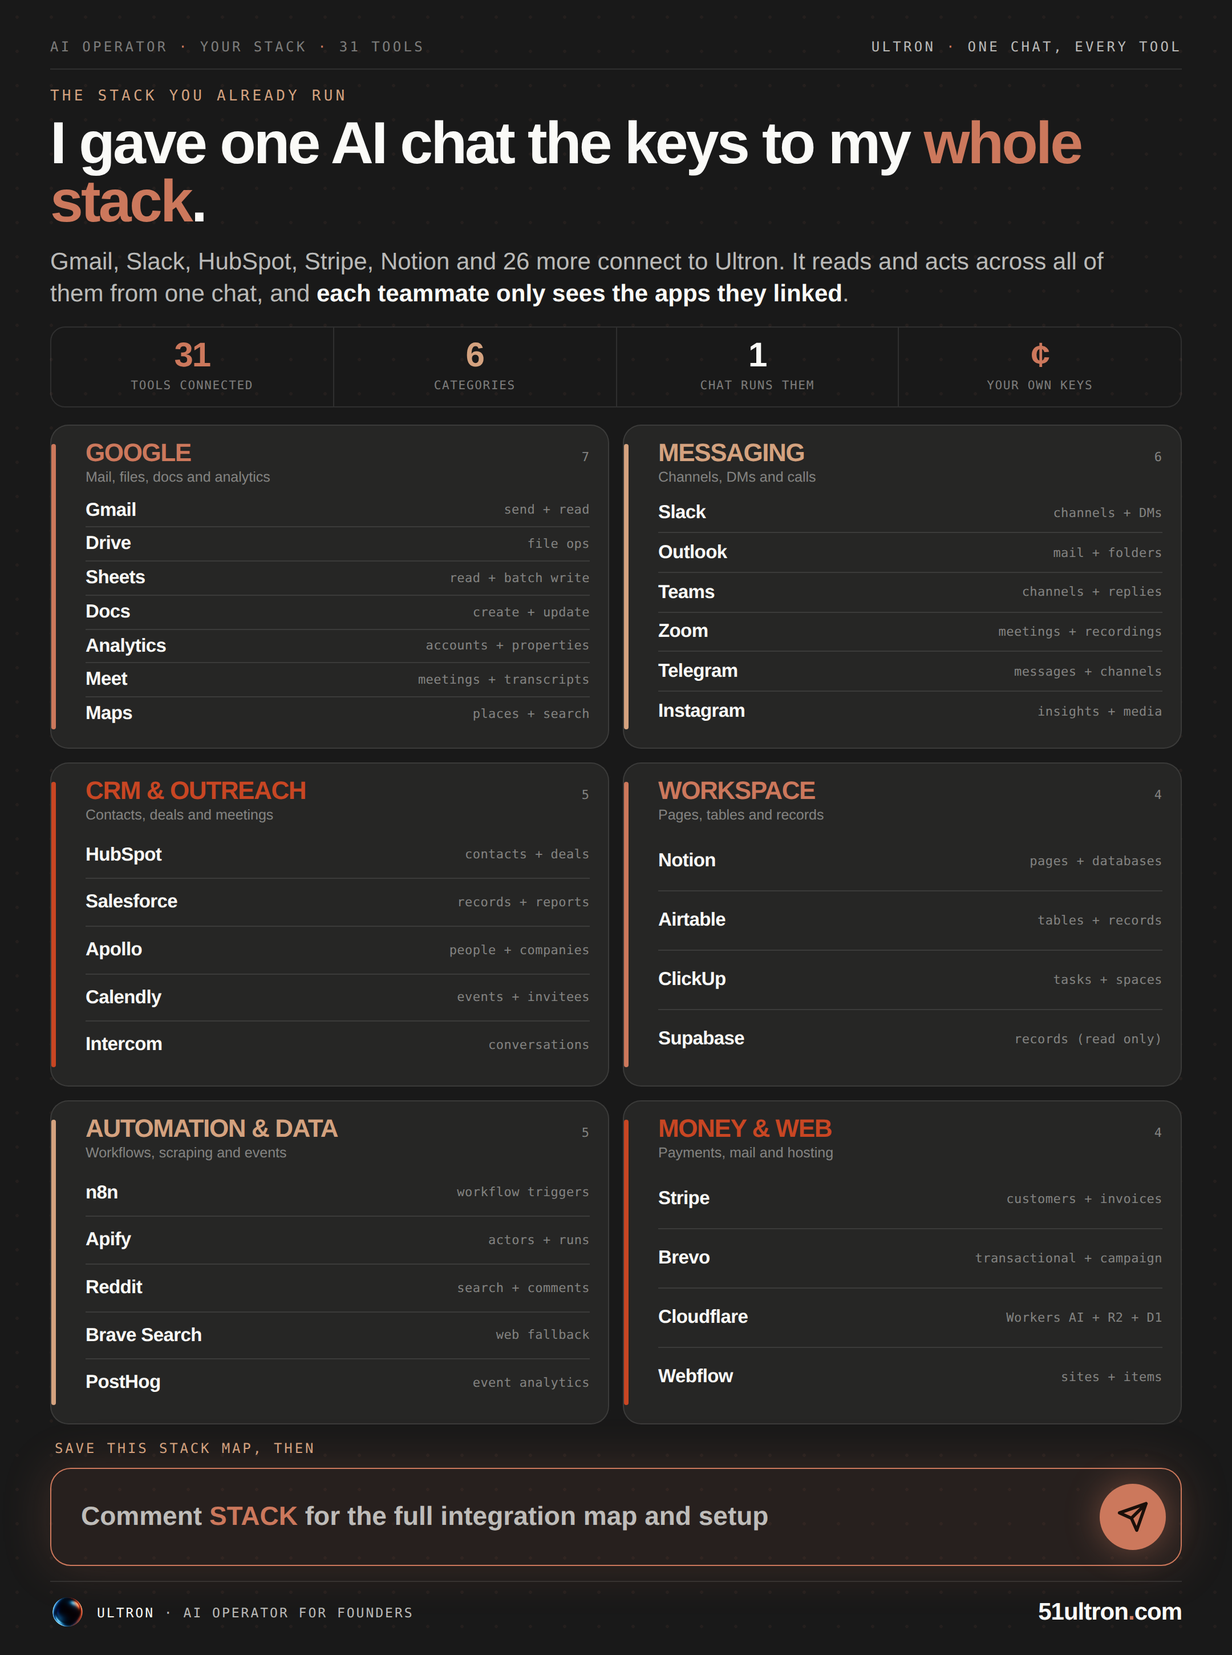
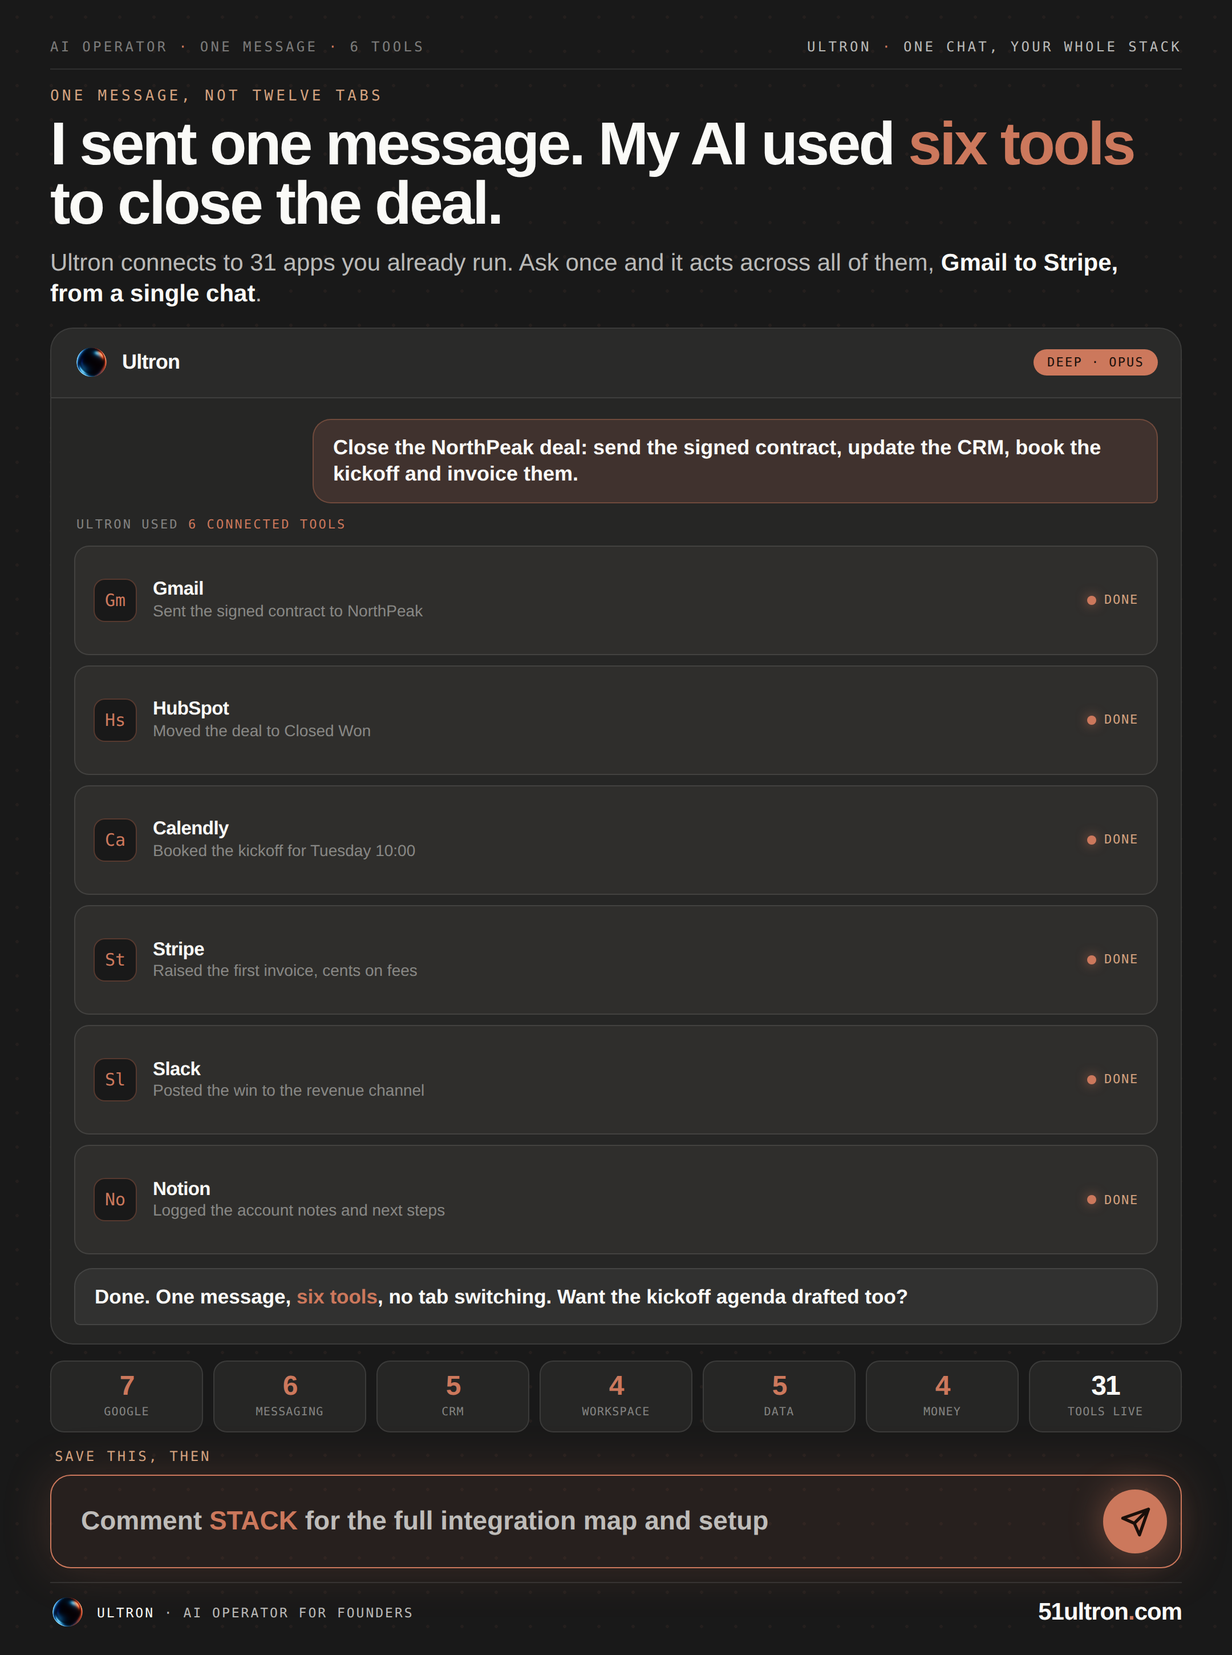
LinkedIn external-tools: new 2D chat-mockup approach (flat)
Replace the weak category grid with a realistic flat 2D Ultron chat mockup: one
message fires six real tools (Gmail -> Stripe), model chip, done markers, plus a
breadth strip (31 tools across 6 categories). Flat coded design, no faux-3D
shadow (operator: LinkedIn stays 2D). ALT text updated to match.

Claude-Session: https://claude.ai/code/session_014kd6D8JB5VW3pfqpgRb2H7

diff --git a/content/tools-external-linkedin.html b/content/tools-external-linkedin.html
@@ -5,11 +5,10 @@
 <title>tools-external - LinkedIn 1080x1450</title>
 <style>
 @import 'https://fonts.googleapis.com/css2?family=DM+Sans:opsz,wght@9..40,400;9..40,500;9..40,600;9..40,700;9..40,800;9..40,900&family=DM+Mono:wght@400;500&display=swap';
-/* tools-external - One chat wired into your whole stack. Dominant = 6 category CARDS of real
-   integrations (chips), distinct from router's 3 lanes and any catalog table. Dark Ultron. Save+comment. */
-:root{--slate:#191919;--slate2:#262625;--ivory:#FAFAF7;--ink70:rgba(250,250,247,.72);--ink46:rgba(250,250,247,.46);
---ink30:rgba(250,250,247,.30);--rule:rgba(250,250,247,.10);
---book:#CC785C;--book-d:#C84623;--kraft:#D4A27F;--cloud:#919180;}
+/* tools-external v2 - NEW approach: a realistic Ultron CHAT mockup where one message fires six real
+   tools (product UI, coded-depth like app.51ultron.com/docs). Distinct from any grid/table. Dark Ultron. */
+:root{--slate:#191919;--slate2:#262625;--slate3:#2f2e2c;--ivory:#FAFAF7;--ink70:rgba(250,250,247,.72);--ink46:rgba(250,250,247,.46);
+--ink30:rgba(250,250,247,.30);--rule:rgba(250,250,247,.10);--book:#CC785C;--book-d:#C84623;--kraft:#D4A27F;--cloud:#919180;}
 *{box-sizing:border-box;margin:0;padding:0;}
 body{background:#0d0d0d;display:flex;justify-content:center;padding:24px 0;font-family:'DM Sans',sans-serif;-webkit-font-smoothing:antialiased;}
 .frame{width:1080px;height:1450px;background:var(--slate);padding:34px 44px 22px;position:relative;overflow:hidden;color:var(--ivory);display:flex;flex-direction:column;}
@@ -21,38 +20,41 @@ body{background:#0d0d0d;display:flex;justify-content:center;padding:24px 0;font-
 .mast .mr{color:var(--ink70);}.mast .mr em{color:var(--book);font-style:normal;}
 .hero{flex-shrink:0;margin-top:16px;}
 .eye{font-family:'DM Mono',monospace;font-size:13px;font-weight:500;letter-spacing:.2em;text-transform:uppercase;color:var(--kraft);}
-.hook{margin-top:9px;font-weight:900;font-size:52px;line-height:.99;letter-spacing:-1.9px;color:var(--ivory);}.hook em{color:var(--book);font-style:normal;}
-.sub{margin-top:12px;font-size:21px;font-weight:500;line-height:1.32;color:var(--ink70);max-width:970px;}.sub b{color:var(--ivory);font-weight:700;}
-.stats{flex-shrink:0;margin-top:15px;display:flex;border:1px solid var(--rule);border-radius:13px;overflow:hidden;}
-.stat{flex:1;padding:12px 14px;text-align:center;}.stat+.stat{border-left:1px solid var(--rule);}
-.stat b{display:block;font-weight:900;font-size:30px;line-height:.85;letter-spacing:-1px;}
-.stat.a b{color:var(--book);}.stat.b b{color:var(--kraft);}.stat.c b{color:var(--ivory);}.stat.d b{color:var(--book);}
-.stat span{font-family:'DM Mono',monospace;font-size:10.5px;font-weight:500;letter-spacing:.08em;text-transform:uppercase;color:var(--ink46);margin-top:7px;display:block;}
-/* category grid (dominant) */
-.grid{flex:1;min-height:0;margin-top:15px;display:grid;grid-template-columns:1fr 1fr;grid-auto-rows:1fr;gap:12px;}
-.cat{display:flex;flex-direction:column;border:1px solid var(--rule);border-radius:16px;background:var(--slate2);overflow:hidden;min-height:0;padding:14px 16px 15px;position:relative;}
-.cat::before{content:'';position:absolute;left:0;top:16px;bottom:16px;width:4px;border-radius:3px;}
-.cat.a::before{background:var(--book);}.cat.b::before{background:var(--kraft);}.cat.c::before{background:var(--book-d);}
-.cat.d::before{background:var(--book);}.cat.e::before{background:var(--kraft);}.cat.f::before{background:var(--book-d);}
-.chead{display:flex;align-items:baseline;justify-content:space-between;padding-left:14px;}
-.cname{font-weight:900;font-size:22px;letter-spacing:-.7px;line-height:.95;}
-.cat.a .cname{color:var(--book);}.cat.b .cname{color:var(--kraft);}.cat.c .cname{color:var(--book-d);}
-.cat.d .cname{color:var(--book);}.cat.e .cname{color:var(--kraft);}.cat.f .cname{color:var(--book-d);}
-.cn{font-family:'DM Mono',monospace;font-size:11px;font-weight:500;color:var(--ink46);letter-spacing:.04em;}
-.cwork{padding-left:14px;margin-top:4px;font-size:12.5px;font-weight:500;color:var(--ink46);line-height:1.1;}
-.tools{flex:1;min-height:0;display:flex;flex-direction:column;padding-left:14px;margin-top:7px;}
-.trow{flex:1;min-height:0;display:flex;align-items:center;justify-content:space-between;gap:10px;border-bottom:1px solid var(--rule);}
-.trow:last-child{border-bottom:none;}
-.tn{font-size:16.5px;font-weight:700;color:var(--ivory);letter-spacing:-.3px;line-height:1;}
-.ta{font-family:'DM Mono',monospace;font-size:11px;font-weight:500;color:var(--ink46);letter-spacing:.02em;text-align:right;line-height:1;}
+.hook{margin-top:9px;font-weight:900;font-size:53px;line-height:.99;letter-spacing:-1.9px;color:var(--ivory);}.hook em{color:var(--book);font-style:normal;}
+.sub{margin-top:11px;font-size:21px;font-weight:500;line-height:1.3;color:var(--ink70);max-width:966px;}.sub b{color:var(--ivory);font-weight:700;}
+/* chat mockup (dominant) */
+.chat{flex:1;min-height:0;margin-top:15px;display:flex;flex-direction:column;border:1px solid var(--rule);border-radius:20px;background:var(--slate2);overflow:hidden;}
+.cbar{flex-shrink:0;display:flex;align-items:center;gap:12px;padding:15px 20px;border-bottom:1px solid var(--rule);background:rgba(250,250,247,.02);}
+.cbar .orb{width:30px;height:30px;border-radius:50%;object-fit:cover;}
+.cbar .cn{font-weight:800;font-size:18px;letter-spacing:-.4px;}
+.cbar .cmodel{margin-left:auto;font-family:'DM Mono',monospace;font-size:11px;font-weight:500;letter-spacing:.1em;text-transform:uppercase;color:#1a0f0a;background:var(--book);padding:5px 12px;border-radius:20px;}
+.cbody{flex:1;min-height:0;display:flex;flex-direction:column;padding:18px 20px 16px;gap:12px;}
+.ume{align-self:flex-end;max-width:78%;background:rgba(204,120,92,.16);border:1px solid var(--book-bd,rgba(204,120,92,.34));border-radius:16px 16px 5px 16px;padding:13px 17px;font-size:18px;font-weight:600;line-height:1.28;color:var(--ivory);}
+.act{font-family:'DM Mono',monospace;font-size:11px;font-weight:500;letter-spacing:.14em;text-transform:uppercase;color:var(--ink46);padding-left:2px;}
+.act em{color:var(--book);font-style:normal;}
+.calls{flex:1;min-height:0;display:flex;flex-direction:column;gap:9px;}
+.tc{flex:1;min-height:0;display:flex;align-items:center;gap:14px;background:var(--slate3);border:1px solid var(--rule);border-radius:13px;padding:0 16px;}
+.tc .ic{width:38px;height:38px;flex-shrink:0;border-radius:10px;background:var(--slate);border:1px solid var(--book-bd,rgba(204,120,92,.34));display:flex;align-items:center;justify-content:center;font-family:'DM Mono',monospace;font-weight:500;font-size:15px;color:var(--book);}
+.tc .tx{flex:1;min-width:0;}
+.tc .tt{font-size:16.5px;font-weight:800;letter-spacing:-.3px;line-height:1.05;}
+.tc .td{font-size:14px;font-weight:500;color:var(--ink46);line-height:1.1;margin-top:2px;}
+.tc .tk{flex-shrink:0;display:flex;align-items:center;gap:7px;font-family:'DM Mono',monospace;font-size:11px;font-weight:500;letter-spacing:.08em;text-transform:uppercase;color:var(--kraft);}
+.tc .tk .dot{width:8px;height:8px;border-radius:50%;background:var(--book);box-shadow:0 0 10px rgba(204,120,92,.7);}
+.ame{background:rgba(250,250,247,.05);border:1px solid var(--rule);border-radius:16px 16px 16px 5px;padding:13px 17px;font-size:17.5px;font-weight:600;line-height:1.28;color:var(--ivory);}.ame b{color:var(--book);font-weight:800;}
+/* breadth strip */
+.strip{flex-shrink:0;margin-top:14px;display:flex;gap:9px;}
+.pill{flex:1;border:1px solid var(--rule);border-radius:12px;background:var(--slate2);padding:11px 6px;text-align:center;}
+.pill b{display:block;font-weight:900;font-size:24px;letter-spacing:-1px;color:var(--book);line-height:.9;}
+.pill span{display:block;font-family:'DM Mono',monospace;font-size:10px;font-weight:500;letter-spacing:.06em;text-transform:uppercase;color:var(--ink46);margin-top:6px;}
+.pill.tot b{color:var(--ivory);}
 /* cta */
 .ctawrap{flex-shrink:0;margin-top:14px;}
-.savel{font-family:'DM Mono',monospace;font-size:12px;font-weight:500;letter-spacing:.16em;text-transform:uppercase;color:var(--kraft);margin-bottom:10px;padding-left:4px;}
-.cta{display:flex;align-items:center;gap:16px;border:1.5px solid var(--book);border-radius:18px;background:rgba(204,120,92,.08);padding:13px 13px 13px 26px;box-shadow:0 0 44px rgba(204,120,92,.2);}
+.savel{font-family:'DM Mono',monospace;font-size:12px;font-weight:500;letter-spacing:.16em;text-transform:uppercase;color:var(--kraft);margin-bottom:9px;padding-left:4px;}
+.cta{display:flex;align-items:center;gap:16px;border:1.5px solid var(--book);border-radius:18px;background:rgba(204,120,92,.08);padding:12px 12px 12px 26px;box-shadow:0 0 44px rgba(204,120,92,.2);}
 .cta .ph{flex:1;font-size:23px;font-weight:600;color:var(--ink70);line-height:1.2;}.cta .ph b{color:var(--book);font-weight:900;}
-.cta .send{width:58px;height:58px;border-radius:50%;background:var(--book);flex-shrink:0;display:flex;align-items:center;justify-content:center;box-shadow:0 0 30px rgba(204,120,92,.45);}
-.cta .send svg{width:28px;height:28px;stroke:#1a0f0a;stroke-width:2.4;fill:none;stroke-linecap:round;stroke-linejoin:round;}
-.ftr{flex-shrink:0;margin-top:13px;padding-top:12px;border-top:1px solid var(--rule);display:flex;align-items:center;justify-content:space-between;gap:16px;}
+.cta .send{width:56px;height:56px;border-radius:50%;background:var(--book);flex-shrink:0;display:flex;align-items:center;justify-content:center;box-shadow:0 0 30px rgba(204,120,92,.45);}
+.cta .send svg{width:27px;height:27px;stroke:#1a0f0a;stroke-width:2.4;fill:none;stroke-linecap:round;stroke-linejoin:round;}
+.ftr{flex-shrink:0;margin-top:12px;padding-top:11px;border-top:1px solid var(--rule);display:flex;align-items:center;justify-content:space-between;gap:16px;}
 .fl2{display:flex;align-items:center;gap:11px;min-width:0;}.flogo{width:30px;height:30px;border-radius:50%;object-fit:cover;flex-shrink:0;}
 .ftx{font-family:'DM Mono',monospace;font-size:11.5px;font-weight:400;letter-spacing:.13em;text-transform:uppercase;color:var(--ink70);white-space:nowrap;}.ftx b{color:var(--ivory);font-weight:500;}
 .furl{font-weight:900;font-size:21px;letter-spacing:-.5px;color:var(--ivory);}.furl em{color:var(--book);font-style:normal;}
@@ -60,89 +62,39 @@ body{background:#0d0d0d;display:flex;justify-content:center;padding:24px 0;font-
 </head>
 <body>
 <div class="frame" id="artifact"><div class="atm"></div>
-  <div class="mast"><span class="ml">AI OPERATOR <em>&middot;</em> YOUR STACK <em>&middot;</em> 31 TOOLS</span><span class="mr">ULTRON <em>&middot;</em> ONE CHAT, EVERY TOOL</span></div>
+  <div class="mast"><span class="ml">AI OPERATOR <em>&middot;</em> ONE MESSAGE <em>&middot;</em> 6 TOOLS</span><span class="mr">ULTRON <em>&middot;</em> ONE CHAT, YOUR WHOLE STACK</span></div>
   <div class="hero">
-    <div class="eye">The stack you already run</div>
-    <div class="hook">I gave one AI chat the keys to my <em>whole stack</em>.</div>
-    <div class="sub">Gmail, Slack, HubSpot, Stripe, Notion and 26 more connect to Ultron. It reads and acts across all of them from one chat, and <b>each teammate only sees the apps they linked</b>.</div>
+    <div class="eye">One message, not twelve tabs</div>
+    <div class="hook">I sent one message. My AI used <em>six tools</em> to close the deal.</div>
+    <div class="sub">Ultron connects to 31 apps you already run. Ask once and it acts across all of them, <b>Gmail to Stripe, from a single chat</b>.</div>
   </div>
-  <div class="stats">
-    <div class="stat a"><b>31</b><span>tools connected</span></div>
-    <div class="stat b"><b>6</b><span>categories</span></div>
-    <div class="stat c"><b>1</b><span>chat runs them</span></div>
-    <div class="stat d"><b>&cent;</b><span>your own keys</span></div>
+  <div class="chat">
+    <div class="cbar"><img class="orb" src="__LOGO_URI__" alt="Ultron"><span class="cn">Ultron</span><span class="cmodel">Deep &middot; Opus</span></div>
+    <div class="cbody">
+      <div class="ume">Close the NorthPeak deal: send the signed contract, update the CRM, book the kickoff and invoice them.</div>
+      <div class="act">Ultron used <em>6 connected tools</em></div>
+      <div class="calls">
+        <div class="tc"><span class="ic">Gm</span><div class="tx"><div class="tt">Gmail</div><div class="td">Sent the signed contract to NorthPeak</div></div><span class="tk"><span class="dot"></span>done</span></div>
+        <div class="tc"><span class="ic">Hs</span><div class="tx"><div class="tt">HubSpot</div><div class="td">Moved the deal to Closed Won</div></div><span class="tk"><span class="dot"></span>done</span></div>
+        <div class="tc"><span class="ic">Ca</span><div class="tx"><div class="tt">Calendly</div><div class="td">Booked the kickoff for Tuesday 10:00</div></div><span class="tk"><span class="dot"></span>done</span></div>
+        <div class="tc"><span class="ic">St</span><div class="tx"><div class="tt">Stripe</div><div class="td">Raised the first invoice, cents on fees</div></div><span class="tk"><span class="dot"></span>done</span></div>
+        <div class="tc"><span class="ic">Sl</span><div class="tx"><div class="tt">Slack</div><div class="td">Posted the win to the revenue channel</div></div><span class="tk"><span class="dot"></span>done</span></div>
+        <div class="tc"><span class="ic">No</span><div class="tx"><div class="tt">Notion</div><div class="td">Logged the account notes and next steps</div></div><span class="tk"><span class="dot"></span>done</span></div>
+      </div>
+      <div class="ame">Done. One message, <b>six tools</b>, no tab switching. Want the kickoff agenda drafted too?</div>
+    </div>
   </div>
-  <div class="grid">
-    <div class="cat a">
-      <div class="chead"><div class="cname">GOOGLE</div><div class="cn">7</div></div>
-      <div class="cwork">Mail, files, docs and analytics</div>
-      <div class="tools">
-        <div class="trow"><span class="tn">Gmail</span><span class="ta">send + read</span></div>
-        <div class="trow"><span class="tn">Drive</span><span class="ta">file ops</span></div>
-        <div class="trow"><span class="tn">Sheets</span><span class="ta">read + batch write</span></div>
-        <div class="trow"><span class="tn">Docs</span><span class="ta">create + update</span></div>
-        <div class="trow"><span class="tn">Analytics</span><span class="ta">accounts + properties</span></div>
-        <div class="trow"><span class="tn">Meet</span><span class="ta">meetings + transcripts</span></div>
-        <div class="trow"><span class="tn">Maps</span><span class="ta">places + search</span></div>
-      </div>
-    </div>
-    <div class="cat b">
-      <div class="chead"><div class="cname">MESSAGING</div><div class="cn">6</div></div>
-      <div class="cwork">Channels, DMs and calls</div>
-      <div class="tools">
-        <div class="trow"><span class="tn">Slack</span><span class="ta">channels + DMs</span></div>
-        <div class="trow"><span class="tn">Outlook</span><span class="ta">mail + folders</span></div>
-        <div class="trow"><span class="tn">Teams</span><span class="ta">channels + replies</span></div>
-        <div class="trow"><span class="tn">Zoom</span><span class="ta">meetings + recordings</span></div>
-        <div class="trow"><span class="tn">Telegram</span><span class="ta">messages + channels</span></div>
-        <div class="trow"><span class="tn">Instagram</span><span class="ta">insights + media</span></div>
-      </div>
-    </div>
-    <div class="cat c">
-      <div class="chead"><div class="cname">CRM &amp; OUTREACH</div><div class="cn">5</div></div>
-      <div class="cwork">Contacts, deals and meetings</div>
-      <div class="tools">
-        <div class="trow"><span class="tn">HubSpot</span><span class="ta">contacts + deals</span></div>
-        <div class="trow"><span class="tn">Salesforce</span><span class="ta">records + reports</span></div>
-        <div class="trow"><span class="tn">Apollo</span><span class="ta">people + companies</span></div>
-        <div class="trow"><span class="tn">Calendly</span><span class="ta">events + invitees</span></div>
-        <div class="trow"><span class="tn">Intercom</span><span class="ta">conversations</span></div>
-      </div>
-    </div>
-    <div class="cat d">
-      <div class="chead"><div class="cname">WORKSPACE</div><div class="cn">4</div></div>
-      <div class="cwork">Pages, tables and records</div>
-      <div class="tools">
-        <div class="trow"><span class="tn">Notion</span><span class="ta">pages + databases</span></div>
-        <div class="trow"><span class="tn">Airtable</span><span class="ta">tables + records</span></div>
-        <div class="trow"><span class="tn">ClickUp</span><span class="ta">tasks + spaces</span></div>
-        <div class="trow"><span class="tn">Supabase</span><span class="ta">records (read only)</span></div>
-      </div>
-    </div>
-    <div class="cat e">
-      <div class="chead"><div class="cname">AUTOMATION &amp; DATA</div><div class="cn">5</div></div>
-      <div class="cwork">Workflows, scraping and events</div>
-      <div class="tools">
-        <div class="trow"><span class="tn">n8n</span><span class="ta">workflow triggers</span></div>
-        <div class="trow"><span class="tn">Apify</span><span class="ta">actors + runs</span></div>
-        <div class="trow"><span class="tn">Reddit</span><span class="ta">search + comments</span></div>
-        <div class="trow"><span class="tn">Brave Search</span><span class="ta">web fallback</span></div>
-        <div class="trow"><span class="tn">PostHog</span><span class="ta">event analytics</span></div>
-      </div>
-    </div>
-    <div class="cat f">
-      <div class="chead"><div class="cname">MONEY &amp; WEB</div><div class="cn">4</div></div>
-      <div class="cwork">Payments, mail and hosting</div>
-      <div class="tools">
-        <div class="trow"><span class="tn">Stripe</span><span class="ta">customers + invoices</span></div>
-        <div class="trow"><span class="tn">Brevo</span><span class="ta">transactional + campaign</span></div>
-        <div class="trow"><span class="tn">Cloudflare</span><span class="ta">Workers AI + R2 + D1</span></div>
-        <div class="trow"><span class="tn">Webflow</span><span class="ta">sites + items</span></div>
-      </div>
-    </div>
+  <div class="strip">
+    <div class="pill"><b>7</b><span>Google</span></div>
+    <div class="pill"><b>6</b><span>Messaging</span></div>
+    <div class="pill"><b>5</b><span>CRM</span></div>
+    <div class="pill"><b>4</b><span>Workspace</span></div>
+    <div class="pill"><b>5</b><span>Data</span></div>
+    <div class="pill"><b>4</b><span>Money</span></div>
+    <div class="pill tot"><b>31</b><span>tools live</span></div>
   </div>
   <div class="ctawrap">
-    <div class="savel">Save this stack map, then</div>
+    <div class="savel">Save this, then</div>
     <div class="cta"><span class="ph">Comment <b>STACK</b> for the full integration map and setup</span><span class="send"><svg viewBox="0 0 24 24"><path d="M22 2 11 13M22 2l-7 20-4-9-9-4z"/></svg></span></div>
   </div>
   <div class="ftr"><div class="fl2"><img class="flogo" src="__LOGO_URI__" alt="Ultron"><span class="ftx"><b>ULTRON</b> &middot; AI OPERATOR FOR FOUNDERS</span></div><div class="furl">51ultron<em>.</em>com</div></div>

diff --git a/content/tools-external-linkedin-caption.md b/content/tools-external-linkedin-caption.md
@@ -15,4 +15,4 @@ Follow for one AI system for founders every day.
 Comment STACK and I will send you the full Claude integration map and the exact setup we use.
 
 ALT TEXT:
-Dark editorial infographic on slate background. The headline reads I gave one AI chat the keys to my whole stack, with whole stack in book-orange. A four-cell stat strip shows 31 tools connected, 6 categories, 1 chat runs them, and a cents symbol for your own keys. Below is a two-by-three grid of six category cards, each with a colored left rule and a list of tools with the work each one does: Google with Gmail, Drive, Sheets, Docs, Analytics, Meet and Maps; Messaging with Slack, Outlook, Teams, Zoom, Telegram and Instagram; CRM and Outreach with HubSpot, Salesforce, Apollo, Calendly and Intercom; Workspace with Notion, Airtable, ClickUp and Supabase; Automation and Data with n8n, Apify, Reddit, Brave Search and PostHog; and Money and Web with Stripe, Brevo, Cloudflare and Webflow. Closes with a Comment STACK call to action and the Ultron logo.
+Dark editorial infographic on slate background. The headline reads I sent one message, my AI used six tools to close the deal, with six tools in book-orange. Below sits a realistic Ultron chat panel with depth. Its top bar shows the Ultron sphere logo, the name Ultron, and a Deep Opus model chip. A book-orange user message reads close the NorthPeak deal, send the signed contract, update the CRM, book the kickoff and invoice them. A label reads Ultron used six connected tools, followed by six tool rows, each with a lettered icon, the tool name, the action, and a done marker: Gmail sent the signed contract, HubSpot moved the deal to Closed Won, Calendly booked the kickoff for Tuesday, Stripe raised the first invoice for cents on fees, Slack posted the win, and Notion logged the account notes. A closing assistant line reads one message, six tools, no tab switching. Under the chat, a strip of counts reads Google 7, Messaging 6, CRM 5, Workspace 4, Data 5, Money 4 and 31 tools live. Closes with a Comment STACK call to action and the Ultron logo.
